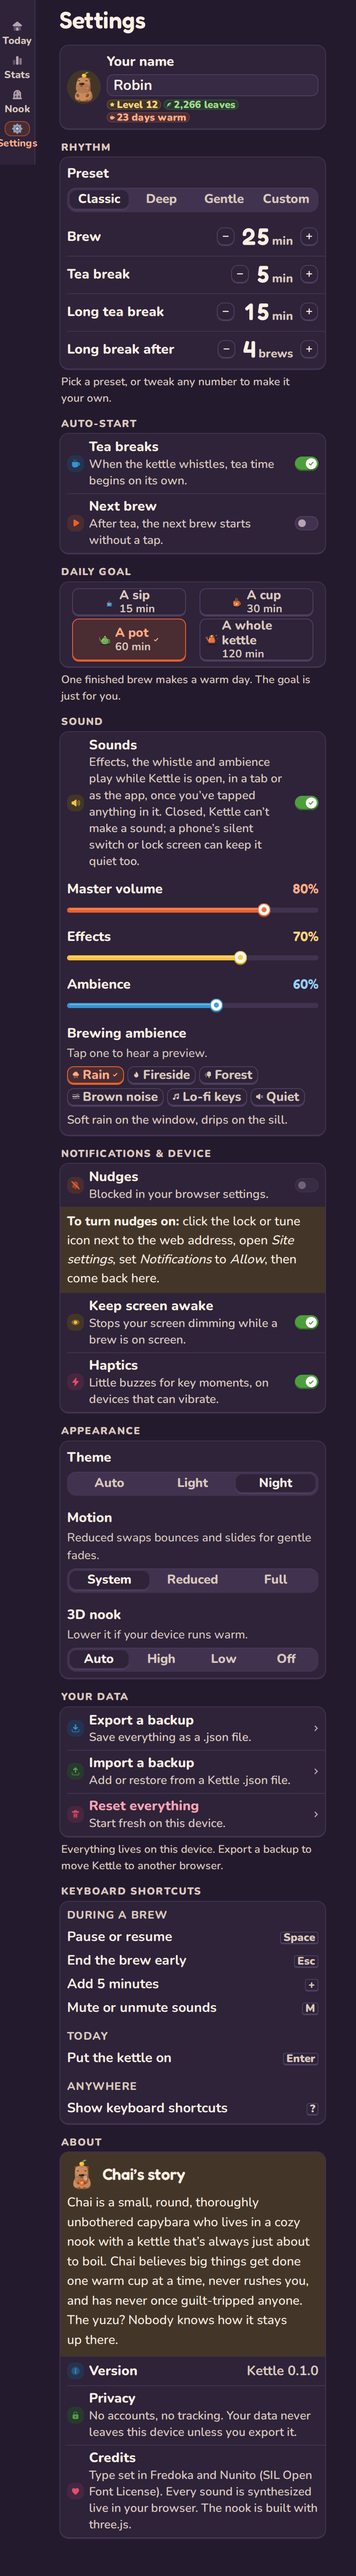
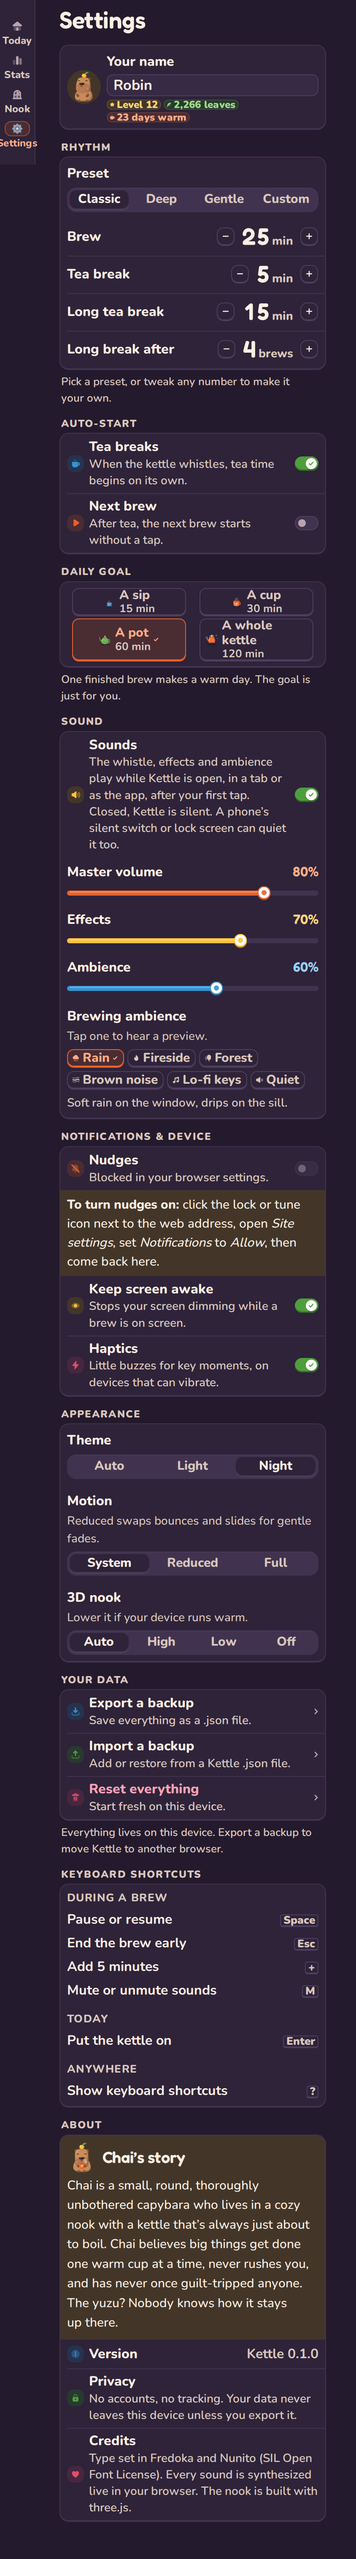
W3R1 G: packet draft and own-suite log
Claude-Session: https://claude.ai/code/session_01Wn1tcRYjBrm68QxmGYwD9K

diff --git a/kettle/review/product-excellence/contracts/W3R1/G-READY-FOR-REVIEW.md b/kettle/review/product-excellence/contracts/W3R1/G-READY-FOR-REVIEW.md
@@ -1,0 +1,141 @@
+# W3R1 · Maker G · Settings and shared controls (I11): READY FOR REVIEW
+
+- **Branch / worktree:** `pe/w3-settings` · `/home/user/wt/w5g` (local commits only, nothing pushed)
+- **Hash:** see the final line of this packet (`HEAD` at hand-off) · `kettle/src` tree hash alongside it
+- **Base:** `4d36939` (src `5cd9a44`) on :5478 (dev) / :5488 (preview). **Mine:** dev :5503 (verified with
+  `/tmp/rv7-servers/verify.sh` after every restart).
+- **Evidence:** `kettle/review/product-excellence/contracts/W3R1/G/` (full-size PNGs, tools, logs).
+
+## Files changed (all within G's ownership)
+
+| File | Change |
+|---|---|
+| `src/styles/tokens.css` | New non-colour state tokens: `--focus-w` 3px, `--focus-gap` 3px, `--focus-gap-inset` −3px, `--disabled-opacity` 0.5. No palette or font change. |
+| `src/styles/global.css` | The global `:focus-visible` ring uses the tokens (same 3px `--focus-ring`, same 3px gap as before). |
+| `src/ui/TextField.module.css` | Focus is the shared 3px `--focus-ring` **outline** (was a 2px inset box-shadow + halo, which vanishes in forced colours); border goes to `--ink-3` as on hover. Disabled: token opacity, not-allowed cursor. |
+| `src/ui/SegmentedControl.module.css` | Ring drawn 1px out (stays inside the 4px track instead of running 2px past it and over the neighbour). **Pressed** unselected option sinks (`surface-3` → `line-strong` mix), distinct from hover (lighter) and selected (raised cream thumb). Forced colours: the thumb gets a `Highlight` border. Disabled: token. |
+| `src/ui/Chip.module.css` | Disabled: token. Forced colours: selected chip keeps a `Highlight` ring (the tick stays). |
+| `src/ui/ListRow.tsx`, `ListRow.module.css` | A row whose switch can't change (blocked/unsupported/disabled) is **not pressable**: no pointer, hover fill or press fill (it had all three while doing nothing). Inset ring and disabled opacity use the tokens. |
+| `src/ui/Toggle.module.css`, `Slider.module.css`, `Card.module.css`, `NumberStepper.module.css` | Ring and disabled opacity from the tokens (were 0.5 / 0.5 / 0.6 / 0.55). Stepper: not-allowed cursor when disabled; its −/+ no longer fade twice. |
+| `src/screens/settings/SettingsScreen.tsx` | Warm-days footer; honest Sounds / Nudges / Keep awake / Haptics copy (below). |
+| `src/screens/settings/DataSection.tsx` | Reset sheet: "…your brews, warm days, leaves, recipes and settings…". |
+| `src/ui/Gallery.tsx` (dev-only `#/kit`) | Glossary wording for the 9 "streak" strings; new **Inert controls** section showing every disabled control together. |
+| `tests/w3-settings.spec.ts` (new) | 9 tests (below). |
+
+Untouched: `ui/Sheet.*`, `ui/Stat.tsx`, `ui/Toast*`, `ui/InlineUndo.tsx`, `ui/moment.ts`, `ui/WeekStrip.tsx`, `ui/index.ts`, and everything outside G's map.
+
+## Inventory (controls and their state tokens, base `4d36939`)
+
+| Control | Focus ring | Disabled | Pressed | Selected |
+|---|---|---|---|---|
+| Button (all variants) | global 3px `--focus-ring`, +3px | own inert face (outline, readable label, opacity 1), native `disabled` | face sinks into edge | n/a |
+| IconButton / session controls | = Button | = Button | = Button | n/a |
+| Chip / ChipGroup | global | **0.5** | face sinks 3px | tone fill + ring + tick |
+| SegmentedControl | global, +3px (runs 2px past the track) | **0.5** | **inner shifts 1px only: on touch, nothing else; on desktop, same fill as hover** | raised cream thumb |
+| Toggle | on track, +3px | **0.5** | thumb widens | matcha track, cream thumb + check |
+| ListRow (button / toggle row) | inset −3px | **0.55**; **a row whose switch is disabled kept pointer, hover and press fills** | surface-3 fill | n/a |
+| NumberStepper | value box, offset 0 | **0.55** (and its −/+ faded again) | −/+ = Button | n/a |
+| Slider | thumb, −4px | row **0.5**, labels ink-3 | thumb grows | n/a |
+| TextField | **2px inset box-shadow + 4px halo (not an outline)** | **0.55** | n/a | n/a |
+| PressableCard | global | **0.6** | sinks 2px | tone border + tint |
+| Pill, Card, Kbd | not interactive | | | |
+
+After: one ring (`--focus-w`/`--focus-gap`, colour `--focus-ring`; inset or tightened only where the geometry needs it),
+one inert recipe (`--disabled-opacity`, not-allowed, out of the Tab order, no hover/press), pressed ≠ hover ≠ selected
+everywhere. Button keeps its own outlined inert face on purpose (it is "clearly a button, just inert", W2 decision).
+
+## Controls first (each reproduced on base :5478, then shown fixed on :5503)
+
+The same spec, `tests/w3-settings.spec.ts`, run against both servers:
+
+- **Base :5478: 9 failed** (log: `G/controls/base-5478-w3-settings-spec.txt`):
+  1. Reset sheet says "…warm streak…" (persistence and reset themselves **passed** on base up to that line: preferences were already kept and reset correctly; this round keeps that behaviour).
+  2–5. Focus: the name field has **no outline**; its ring is a box-shadow (`{"name":"input[] ","ring":false,"visible":true}`), unlike every other control (visible in normal colours, lost in forced colours, see 8).
+  6. Nudges row, switch blocked: hover fill `rgb(252, 244, 233)` and press fill on a row that does nothing.
+  7. Pressed segment = hovered segment (`oklab(0.959 0.0039 0.0176)` both).
+  8. Forced colours: focused field `outline-style: none` (the box-shadow ring is dropped: no visible focus); selected segment thumb has no border (choice invisible).
+  9. Settings text contains "streak" (Daily goal footer).
+- **Mine :5503: 9 passed** (`G/own-suites.txt`).
+- Visual: `G/controls/base-states-{light,dark}.png` vs `G/controls/after-states-{light,dark}.png` (rows "Toggle row,
+  switch disabled (Nudges, blocked)", "SegmentedControl · unselected option" pressed column, "Today · Brew length ·
+  unselected" pressed column, "TextField" focus). Inert opacities measured in the kit:
+  `G/controls/*-inert.json` (base: TextField 0.55; after: every control 0.5, none in the Tab order).
+- Tab-order audits (every stop: where the ring is drawn, width, contrast, clipping): `G/tools/focus-audit.mjs`.
+  Base and after: every ring ≥ 3:1 (light 3.87–4.69, dark 6.98–10.02). Base input had no outline.
+
+## Settings preferences: persistence and reset (item 2)
+
+Test 1 (fresh disposable context, real clicks/keys): Theme Night, Preset Deep, Motion Reduced, 3D Low, Sounds off,
+Ambience Fireside, Daily goal A pot, Tea break ↑ (preset → Custom). **Reload:** all kept (`html[data-theme=dark]`,
+`html[data-motion=reduce]`, radios, spinbuttons, stored `kettle:settings`). **Reset everything** (row → "Start
+fresh?" sheet → Reset everything): stored settings back to defaults (`theme auto, rhythm classic 25/5/15/4, motion
+system, scene auto, muted false, ambient rain, dailyGoalMin 30, onboarded false`); after a reload Settings shows them.
+No change to persistence or reset code (both live in `src/state`/`src/progress`, not edited). Shortcuts are a static
+list (no preference to persist).
+
+## Honest copy (item 3): what the code does (`src/audio/**`, `src/timer/notify.ts`, `src/pwa/sw.ts`; read, not edited)
+
+- Sound needs a first user gesture (`engine.play` refuses to create the AudioContext before activation); it plays while the page lives (the context is suspended only when nothing is playing: hidden, or idle 60 s); nothing can play once Kettle is closed.
+  → Sounds on: "The whistle, effects and ambience play while Kettle is open, in a tab or as the app, after your first tap. Closed, Kettle is silent. A phone’s silent switch or lock screen can quiet it too." (muted line unchanged)
+- Nudges fire only from the tab that completed the phase, only when **no Kettle tab is visible** (`shouldNotify`), and there is **no push** (the service worker only handles `notificationclick`): closed Kettle = no nudge.
+  → On: "On. When a brew or tea break ends while Kettle is open but out of sight, I’ll nudge you. With Kettle closed, no nudge can come. A locked phone may hold the nudge until you’re back." Off/default lines say "while Kettle is out of sight / open but out of sight". Unsupported and denied lines unchanged (F's `whistle.spec.ts` and Welcome copy assert/echo them).
+- Wake lock is held only while the page is visible and a brew runs → "Stops your screen dimming while a brew is on screen."
+- `navigator.vibrate` exists on desktop Chrome without a motor → "Little buzzes for key moments, on devices that can vibrate."
+
+## Warm-days wording (item 4)
+
+Daily goal footer: "One finished brew makes a warm day. The goal is just for you." · Reset: "…your brews, warm days,
+leaves…" · Gallery: "Tea Cozy used. The kettle stayed warm.", "A Tea Cozy keeps the kettle warm through one missed
+day.", "Warm days", "Days warm", "Warmest run", "Another warm day", tooltip "Keeps the kettle warm through one missed
+day", dialog "…your brews, warm days and nook…". Test 9 checks Settings text, `aria-label`, `title`, `alt` for /streak/i.
+
+## REFERENCE → BEFORE → AFTER (Settings top to bottom, full page)
+
+REFERENCE: `G/reference/K09-live-settings.jpg` (and `K01-home.png`). Frozen 2026-10-12T07:40Z, seed veteran, sounds on,
+name "Robin". Notifications are "Blocked" in headless Chromium (the denied help row shows in every capture).
+
+| Size | Light 100 % | Light 200 % | Dark 100 % | Dark 200 % |
+|---|---|---|---|---|
+| 390×844 | `G/before/settings-390x844-light-100.png` → `G/after/…` | `…-light-200.png` | `…-dark-100.png` | `…-dark-200.png` |
+| 375×667 | `G/before/settings-375x667-light-100.png` → `G/after/…` | `…-light-200.png` | `…-dark-100.png` | `…-dark-200.png` |
+| 844×390 | `G/before/settings-844x390-light-100.png` → `G/after/…` | `…-light-200.png` | `…-dark-100.png` | `…-dark-200.png` |
+| 1440×900 | `G/before/settings-1440x900-light-100.png` → `G/after/…` | `…-light-200.png` | `…-dark-100.png` | `…-dark-200.png` |
+
+(`G/after/` has the same 16 names.) Visible differences: copy only (Daily goal footer, Sounds, Nudges, Keep awake,
+Haptics). Page heights grow 19–59 px at 100 % and 78–275 px at 200 % (the longer Sounds/Nudges lines, e.g. 390×844 @200 %: 8735 → 9010 px). Capture
+artefact, BEFORE and AFTER alike: phone full-page shots (`isMobile`) repeat the page top under the end of the page
+(fixed tab bar / Chromium stitching); not a product defect.
+
+Control-state sheets (rest / hover / keyboard focus / pressed / disabled; Settings, Today's composer, the session
+controls, the kit's inert set), 1440×900 @2x: `G/controls/{base,after}-states-{light,dark}.png` (after-light served
+from `d1962ac`, after-dark from `3743728`; later commits changed only the Sounds line, the stepper's disabled cursor
+and the spec). Tools: `G/tools/capture-settings.mjs`, `G/tools/state-sheet.mjs`, `G/tools/focus-audit.mjs`.
+
+## Suites
+
+RESULTS_PLACEHOLDER
+
+## Preserve list
+
+Identity (cream/plum, Fredoka/Nunito, orange focus / blue rest / green progress): no colour or font token changed.
+Working controls and destinations: unchanged behaviour; preferences (sound/theme/motion/3D/shortcuts) and backup tools
+kept, persistence and reset proven. User data: destructive test in a disposable context only. Implementation: no
+rewrites, no dependency change, no new settings, no new chrome.
+
+## Open findings / residuals
+
+- FOLLOW-UP (not mine): `ui/Toast.module.css:75` uses `var(--focus, var(--sky))`; `--focus` is not a token, so the
+  toast action's ring is sky, not `--focus-ring` (on the inverse toast surface; may be deliberate for contrast). F's file.
+- FOLLOW-UP (not mine): `screens/stats/stats.module.css:654` draws "today" on the calendar with a 2px `--ink-2`
+  outline; not a focus ring, noted only so a reviewer doesn't mistake it for one. S's file.
+- ACCEPTED: Button keeps its outlined inert face (opacity 1) rather than `--disabled-opacity`, by design (W2).
+- ACCEPTED: NumberStepper −/+ are not Tab stops (the spinbutton takes ↑/↓/PgUp/PgDn/Home/End), unchanged.
+- Today's pill "N days warm streak" (Today, rail) is F's item; it is outside Settings and not changed here.
+
+## Cross-owner requests
+
+- **F** (`ui/Toast.module.css`): consider `var(--focus-ring)` (or keep sky deliberately and say so) for `.action:focus-visible`.
+- **F/S, process:** the shared scratchpad is common to all makers; my logs collided with S's (`pw2.log`, `pw3.log`)
+  around 10:53–11:00. I moved to `scratchpad/G/`. Use a lane prefix for log names.
+
+HASH_PLACEHOLDER
